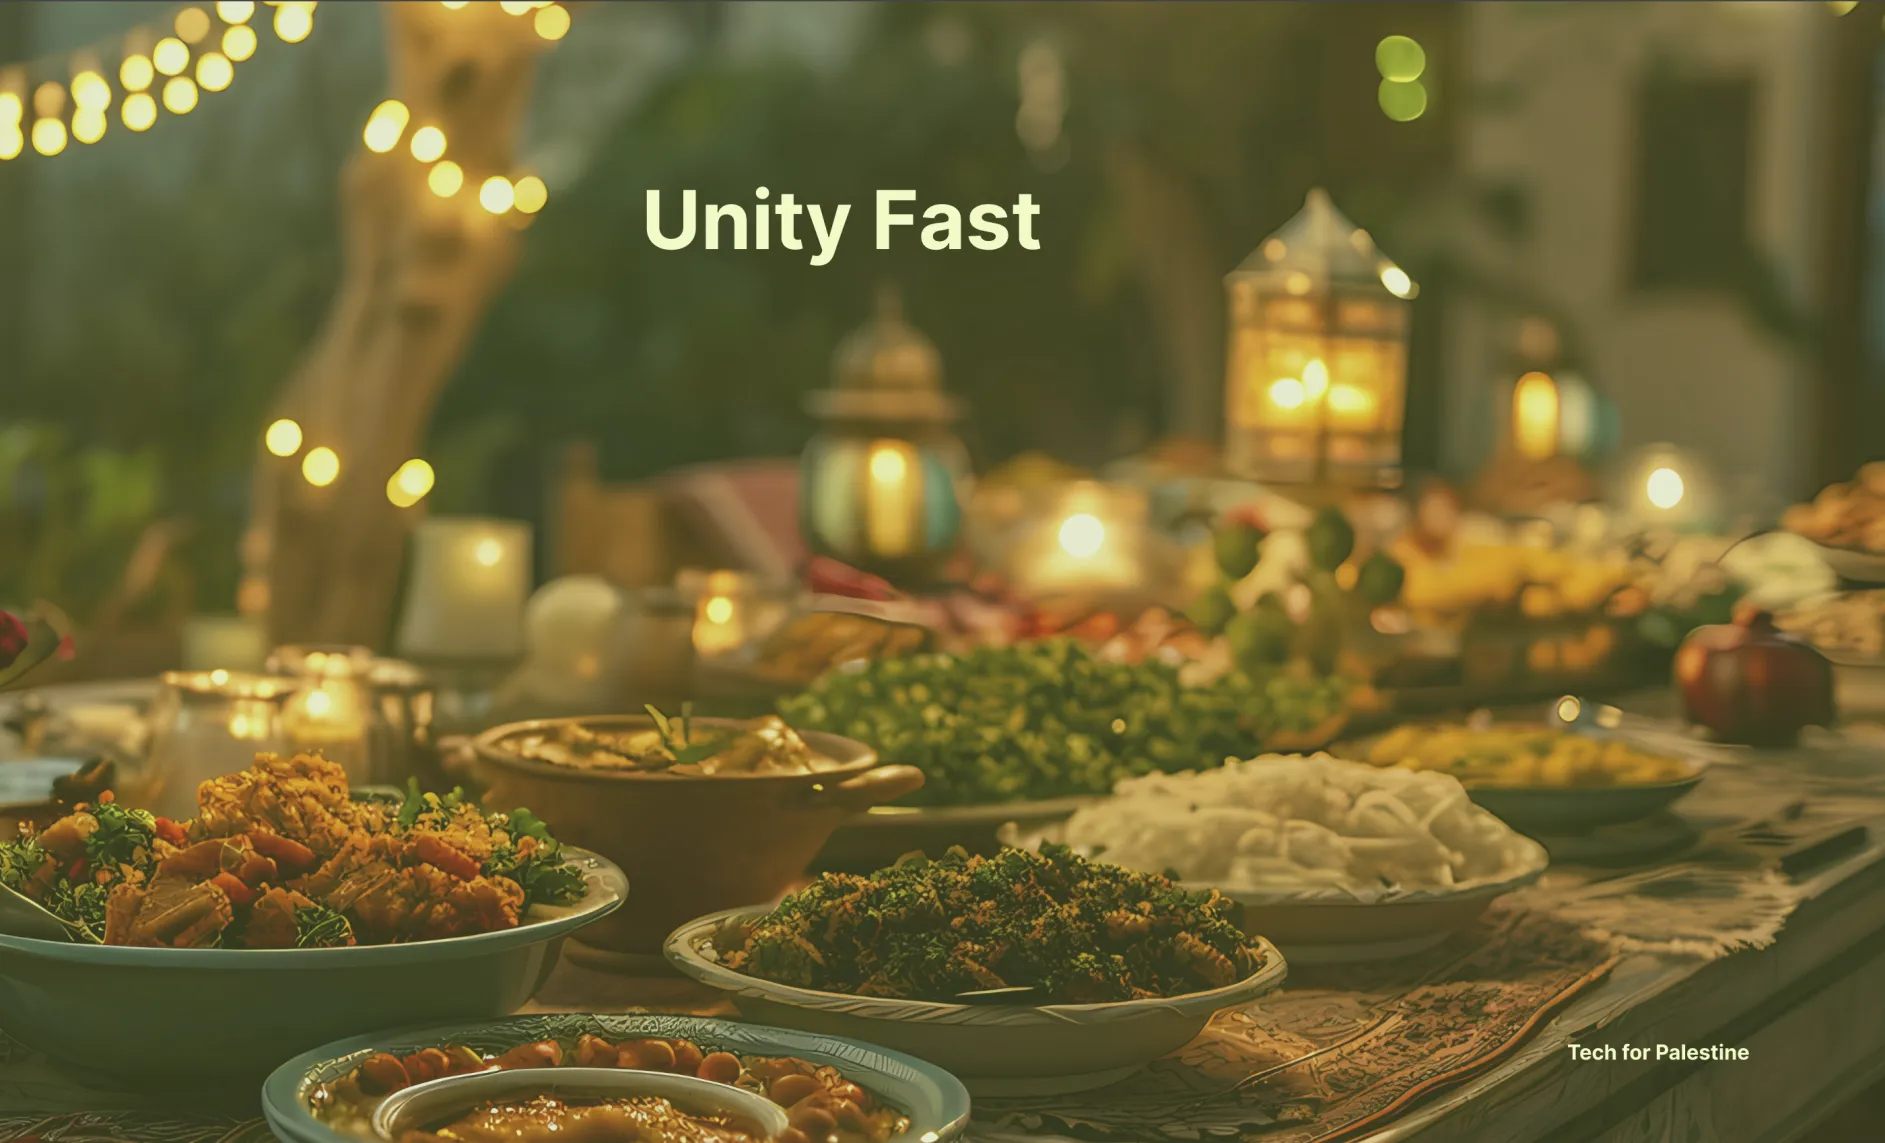
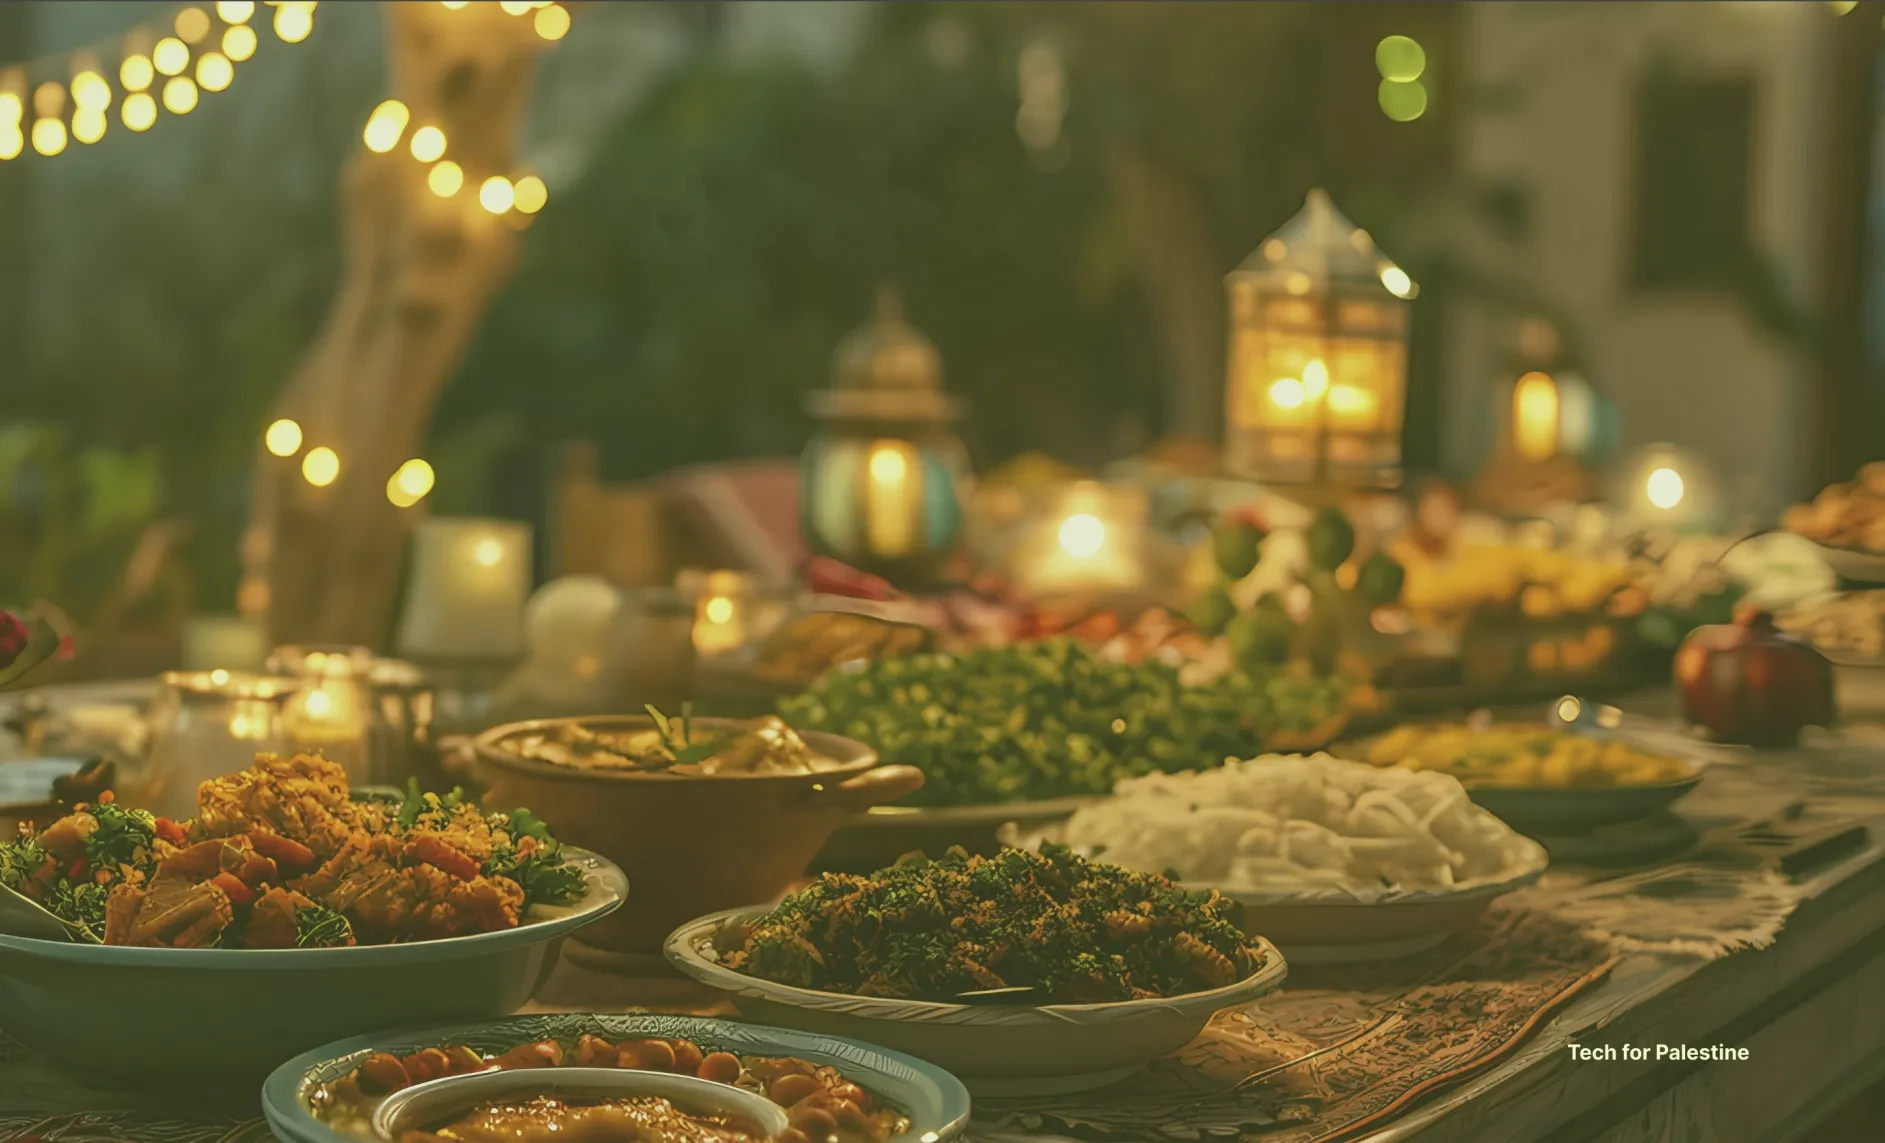
styling updates

Changed region(s): [[0.3385, 0.1531, 0.5538, 0.245]]

diff --git a/src/components/About.jsx b/src/components/About.jsx
@@ -1,0 +1,20 @@
+export default function About() {
+  return (
+    <div className="container">
+    <p>
+       <strong>UnityFast</strong> is a dedication to the humans of Palestine, from humans across the globe. Our solidarity knows no borders and no bounds.
+    </p>
+    <p>
+       Beginning on March 11th (the first day of Ramadan, a much-awaited and
+       blessed month in the Muslim lunar calendar), <strong>UnityFast</strong> will launch a 30-day vigil to honor the tens of thousands of lives lost in Gaza. Together, we'll fast on their behalf, carrying their memories through these blessed days and beyond. We dedicate our sacrifices and
+       rewards to our Palestinian brothers and sisters in Gaza, the West Bank, and the world over.
+    </p>
+    <p>
+       You don't have to be Muslim to observe Ramadan, and you don't have to fast the entire month to reap its rewards. Fast for one, two, five, ten or any number of days, for the many who didn't live to observe this month and would have savored the opportunity.
+    </p>
+    <p>
+       Ramadan is just the beginning, and fasting is the first step in our pledge of solidarity. Continue to <a href="https://imeu.org/" target="_blank">learn</a> about Palestine; advocate for justice and Palestinian liberation; <a href="https://www.birdsofgaza.com/" target="_blank">honor</a> the innocent and those still under siege, and <a href="https://www.unrwa.org/" target="_blank">donate</a> in response to the worsening humanitarian crisis in Gaza.
+    </p>
+ </div>
+  );
+}

diff --git a/src/App.css b/src/App.css
@@ -1,13 +1,22 @@
 .header {
-  background-color: lightgray;
-  height: 200px;
+  height: 500px;
   padding: 10px;
+
+}
+
+.header h1 {
+  font-size: 38px;
+  text-transform: uppercase;
+  letter-spacing: -2px;
+  font-weight: bold;
 }
 
 .stat {
   border: 1px solid darkgray;
   padding: 3px;
-  width: 200px;
+  /* margin-top: 20px; */
+  border-radius: 3px;
+  /* width: 200px; */
 }
 
 .stat-numbers {
@@ -27,15 +36,17 @@
 }
 
 .stats {
-  display: flex;
+  /* display: flex;
   justify-content: space-around;
-  margin-top: 10px;
+  margin-top: 10px; */
+  margin: 20px auto;
 }
 
 .card-details {
-  width: 250px;
-  height: 300px;
-  margin-bottom: 10px;
+  width: 90%;
+  /* height: 300px; */
+  /* margin-bottom: 10px; */
+  margin: 10px auto;
 }
 
 .card-details-body {
@@ -49,5 +60,19 @@
   display: flex;
   flex-wrap: wrap;
   justify-content: space-between;
-  padding: 0 80px;
+  /* padding: 0 80px; */
 }
+
+
+/* Desktop */
+@media (min-width: 768px) { 
+  .header h1 {
+    font-size: 70px;
+    width: 50%;
+    line-height: 4.5rem;
+  }
+
+  .card-details {
+    width: 40%;
+  }
+ }

diff --git a/src/components/Profile.jsx b/src/components/Profile.jsx
@@ -7,7 +7,6 @@ export default function Profile() {
   return (
     <>
       <Link to="/">Back</Link>
-      <h2>profile</h2>
       {/* <Card
         title="Long Headline with Two Lines"
         text="A short but complete sentence that takes up two lines"
@@ -22,6 +21,18 @@ export default function Profile() {
           <p className="card-text">dob: {user.dob}</p>
           <p className="card-text">gender: {user.sex}</p>
           <p className="card-text">age: {user.age}</p>
+          {/* <form>
+            <label for="unityfast" class="form-label">
+              How many days do you pledge to fast?
+            </label>
+            <input
+              id="unityfast"
+              class="form-control form-control-sm"
+              type="text"
+              placeholder=".form-control-sm"
+              aria-label=".form-control-sm example"
+            />
+          </form> */}
         </div>
         <div className="card-footer">➕📅📌🏳</div>
       </div>

diff --git a/src/components/Stats.jsx b/src/components/Stats.jsx
@@ -1,11 +1,19 @@
 import Stat from "./Stat";
 export default function Stats() {
   return (
-    <div className="stats">
-      <Stat title="Total of People Fasting" number="8.236K" percent="1.2" />
-      <Stat title="Total Shared" number="2.352M" percent="11" />
-      <Stat title="Total Families Helped" number="8K" percent="5.2" />
-      <Stat title="Total Donated" number="11.8M" percent="2.5" />
+    <div className="row stats">
+      <div className="col-sm-6 col-lg-3">
+        <Stat title="Total of People Fasting" number="8.236K" percent="1.2" />
+      </div>
+      <div className="col-sm-6 col-lg-3">
+        <Stat title="Total Shared" number="2.352M" percent="11" />
+      </div>
+      <div className="col-sm-6 col-lg-3">
+        <Stat title="Total Families Helped" number="8K" percent="5.2" />
+      </div>
+      <div className="col-sm-6 col-lg-3">
+        <Stat title="Total Donated" number="11.8M" percent="2.5" />
+      </div>
     </div>
   );
 }

diff --git a/src/components/Header.jsx b/src/components/Header.jsx
@@ -1,4 +1,5 @@
 import header from "../assets/header.webp";
+import { Link } from "react-router-dom";
 export default function Header() {
   return (
     <div
@@ -10,7 +11,18 @@ export default function Header() {
         color: "white",
       }}
     >
-      <h1>Unity Fast: A 30-Day Vigil Honoring Lives Lost in Gaza</h1>
+      <div style={{display: "flex", justifyContent: "space-between"}}>
+        <Link to="/">
+          <button className="btn btn-light">Home</button>
+        </Link>
+        <Link to="/about">
+          <button className="btn btn-light">About</button>
+        </Link>
+      </div>
+
+      <h1>
+        Unity Fast: <br />A 30-Day Vigil Honoring Lives Lost in Gaza
+      </h1>
       <p>Join UnityFast - a 30 day Ramadan vigil</p>
       <p>starting March 11th</p>
     </div>

diff --git a/src/App.jsx b/src/App.jsx
@@ -6,14 +6,16 @@ import Header from "./components/Header";
 import Stats from "./components/Stats";
 import Cards from "./components/Cards";
 import Profile from "./components/Profile";
+import About from "./components/About";
 function App() {
   return (
-    <div className="container-fluid">
+    <div className="">
       <Header />
       <Stats />
       {/* <Cards /> */}
       <Routes>
         <Route path="/" element={<Cards />} />
+        <Route path="/about" element={<About />} />
         <Route path="/user/:userId" element={<Profile />} />
       </Routes>
     </div>
